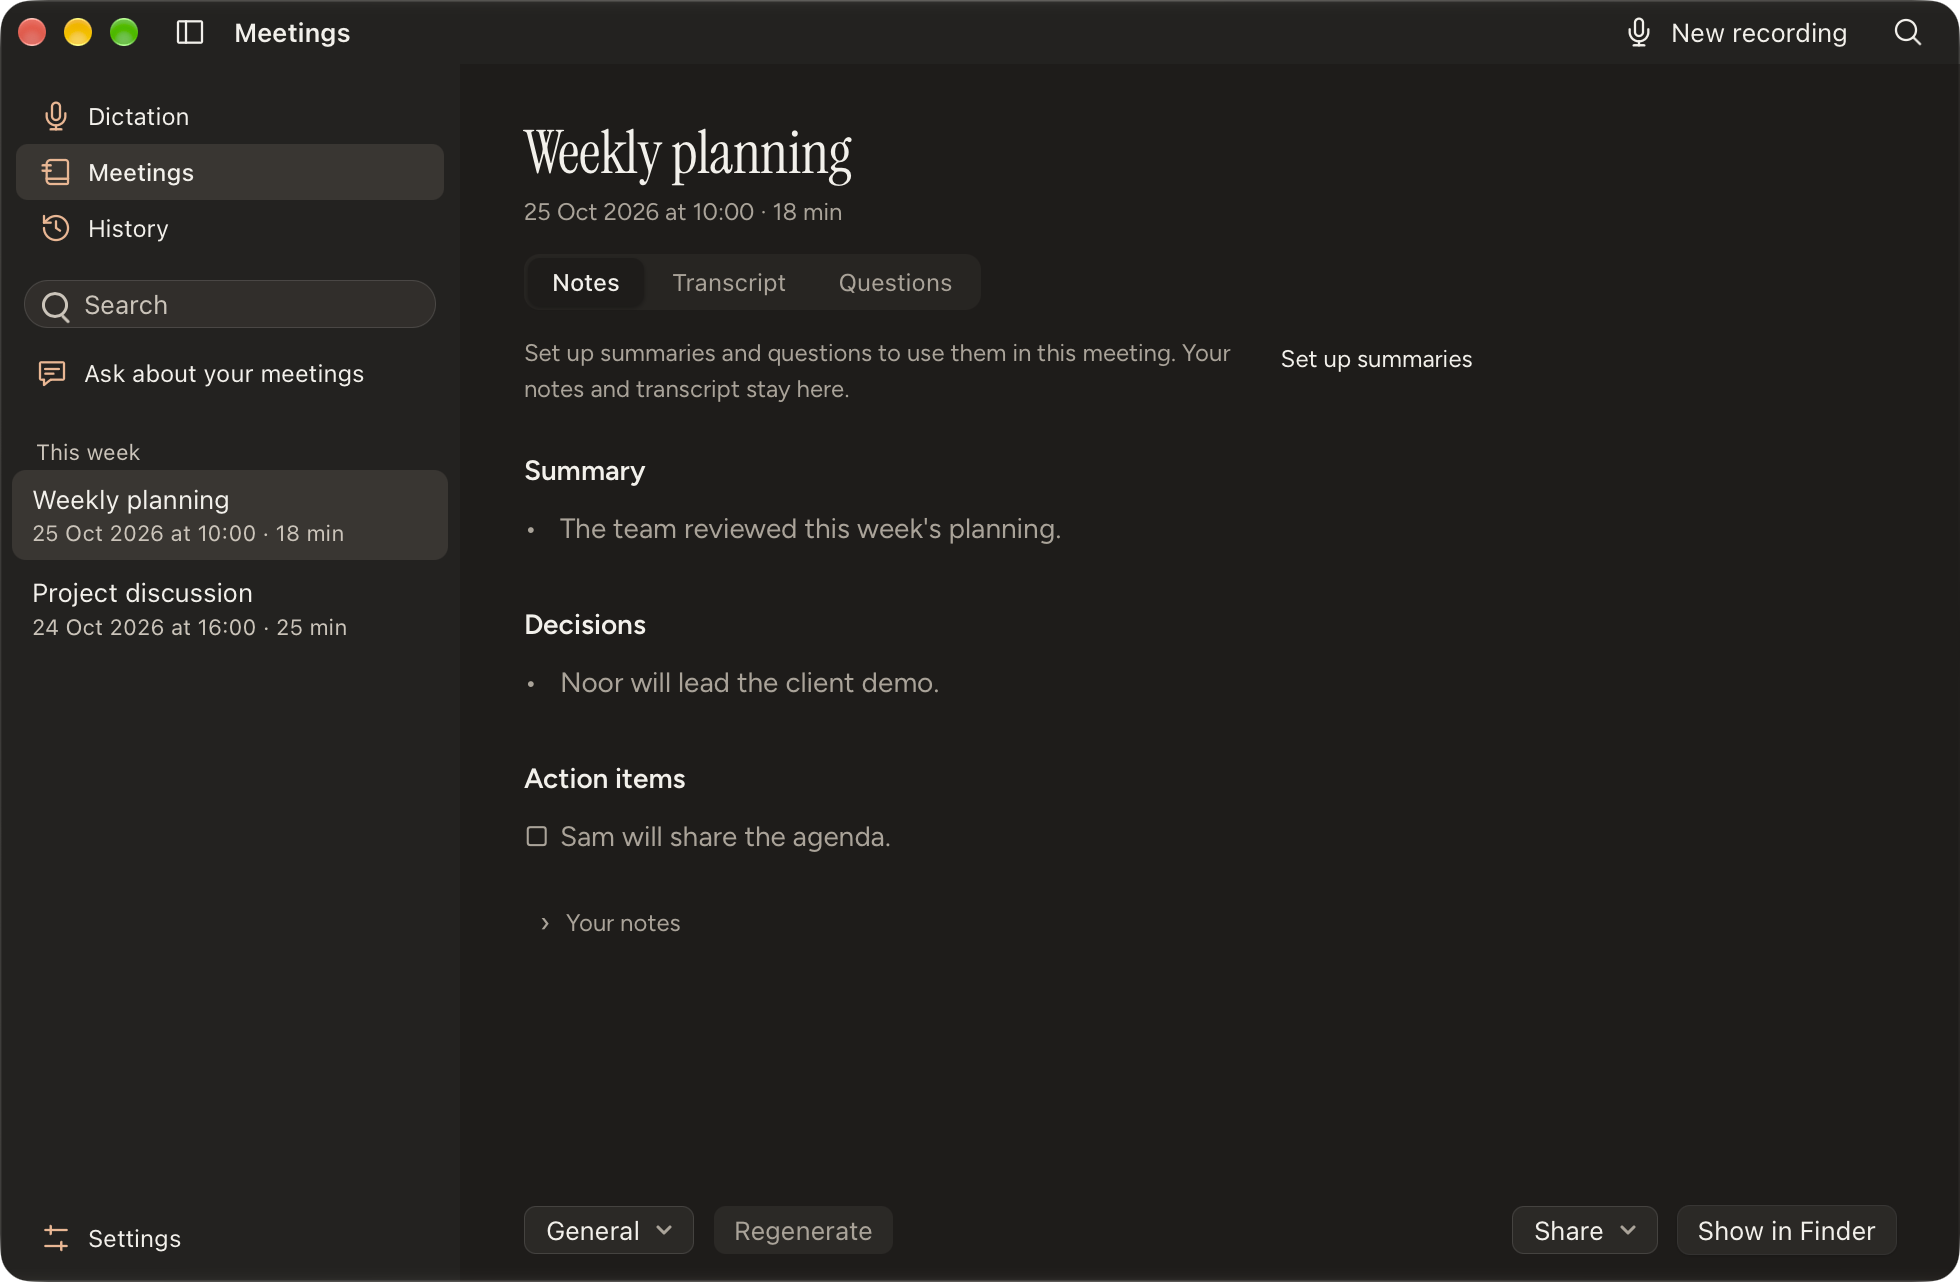
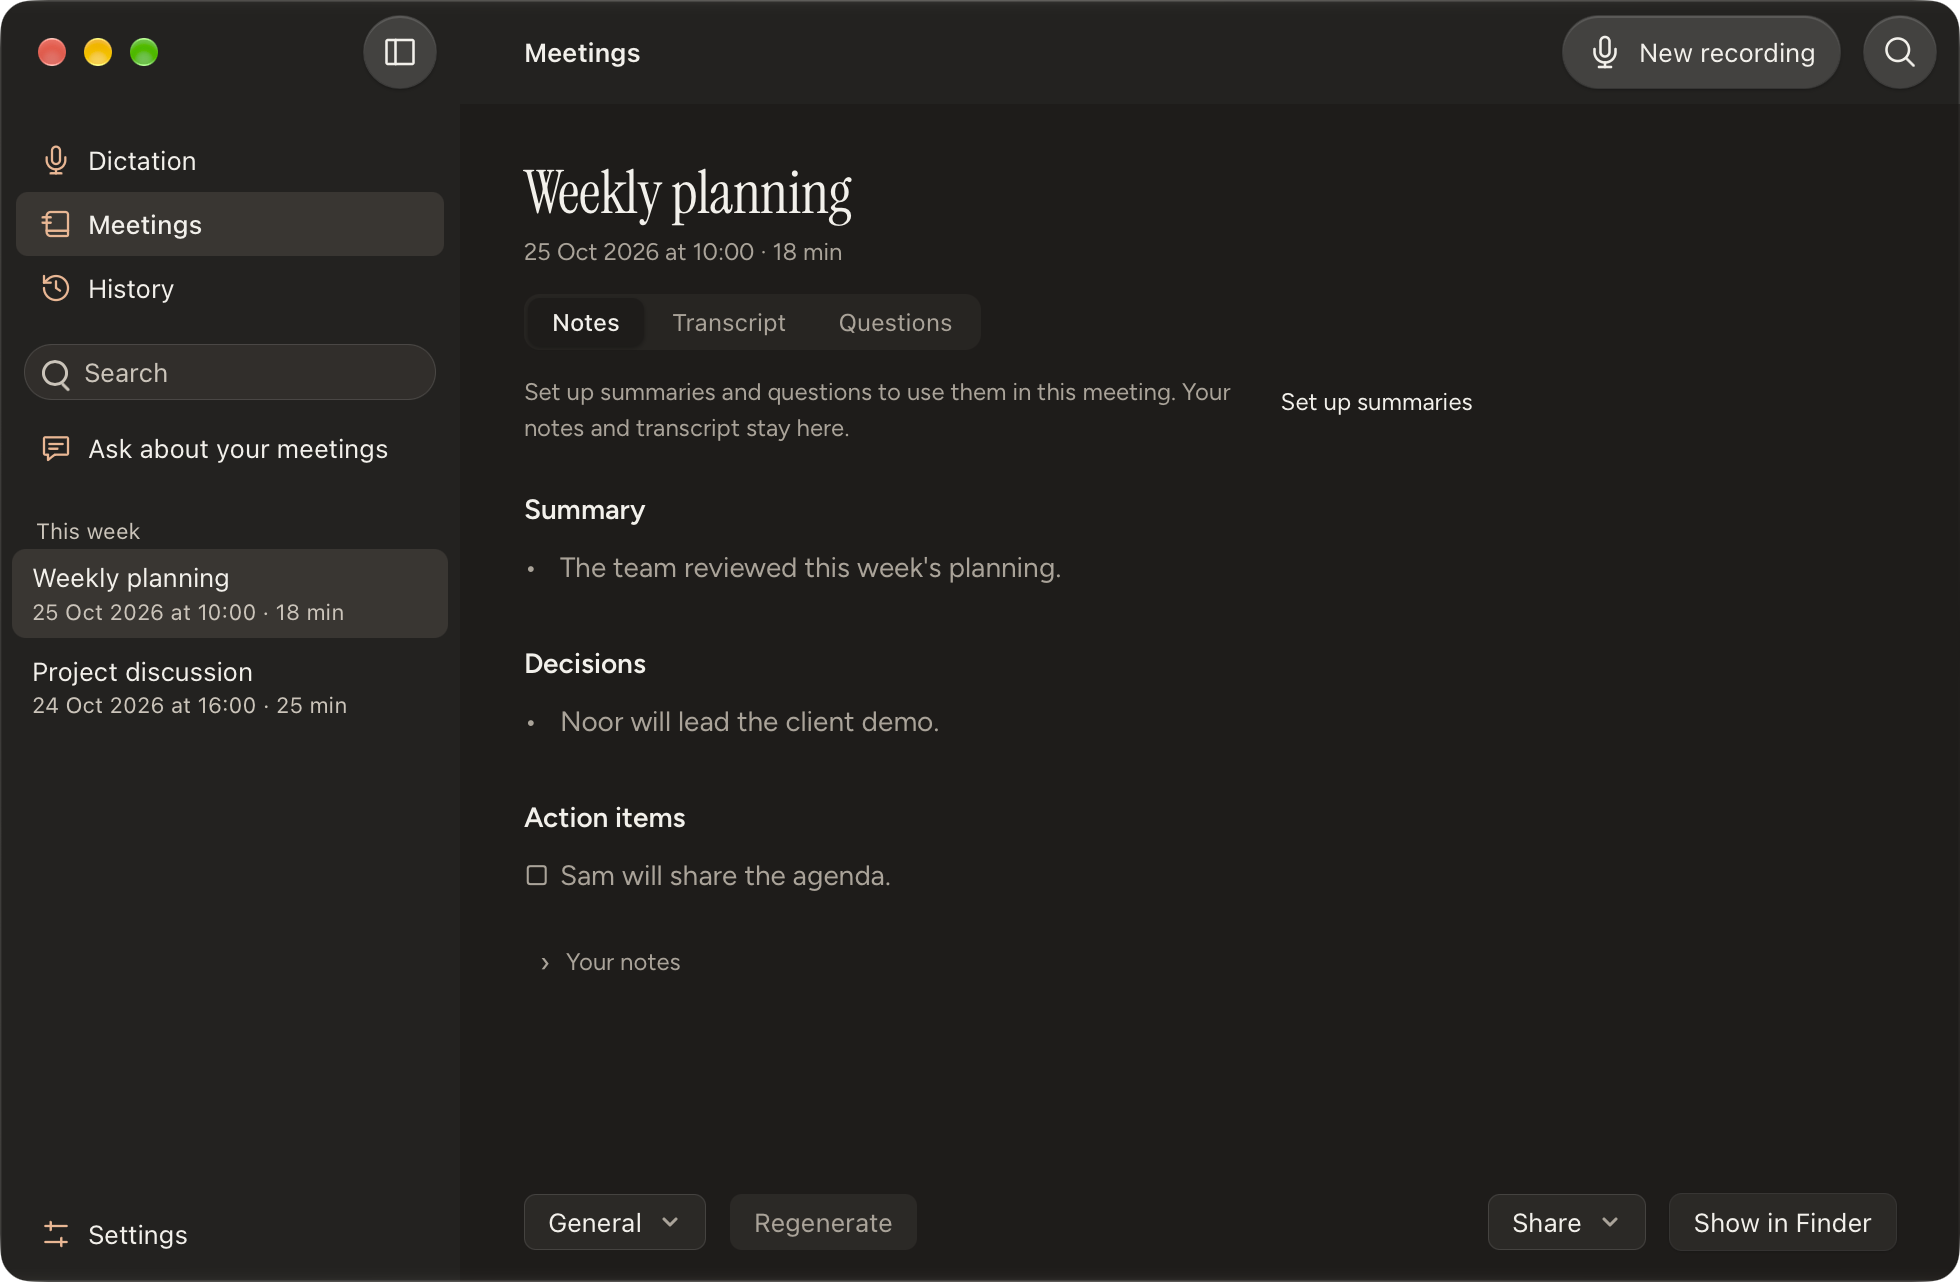
docs(desktop): record padded native toolbar verification
Bind owned light/dark captures to the reviewed desktop candidate and retain the actual geometry, preference checks and acceptance limits.

Scope-risk: narrow
Tested: native EN/NL captures, control activation, minimum width, fullscreen and real accessibility preferences
Not-tested: older-OS visual and human accessibility acceptance

diff --git a/docs/macos-liquid-glass.md b/docs/macos-liquid-glass.md
@@ -30,11 +30,13 @@ Local verification on macOS 27.0.1 / Xcode 27:
 
 Native captures use a separate app identity and only owned window IDs. Browser fixtures establish frontend layout and event handling; they do not establish native material rendering. The capture bundle is development/ad-hoc signed. Older macOS 26/14.4/15 visual acceptance, Windows/Linux execution, human VoiceOver/enlarged-text acceptance, hosted CI and merge remain open. Capture-control launches can affect focus, so active/inactive observations require independent focus transitions rather than merely naming a snapshot inactive.
 
-### Earlier desktop checkpoint
+### Reviewed desktop candidate
 
[2 lines of base64/hex data omitted]
 
-The [machine-readable receipt](evidence/macos-liquid-glass-2026-10-29/receipt.json) distinguishes the final EN/NL light/dark candidate captures from live accessibility checks made during implementation. Final native checks also verified picker cancellation returning focus to Add app, closing the workspace returning to accessory policy, and native/frontend focus becoming false after hiding. Visible inactive-window visual review remains open.
+The [machine-readable receipt](evidence/macos-liquid-glass-2026-10-29/receipt.json) records eight final native EN/NL light/dark captures and separates historical checks from the final padding candidate. This candidate also exercised circular sidebar/search activation, fullscreen, the maximum sidebar at minimum window size, and real transparency/contrast preferences. Native and frontend states matched; the controls stayed visible with opaque fallbacks. Original settings and the original System Settings page were restored.
+
+The requested minimum fixture size is 760×520. Native toolbar/layout adjustment can raise the measured viewport height; receipts retain the actual dimensions instead of assuming a fixed OS result. Footer actions remain contained and reachable.
 
 ![Revised native macOS light appearance](evidence/macos-liquid-glass-2026-10-29/meeting-light.png)
 
